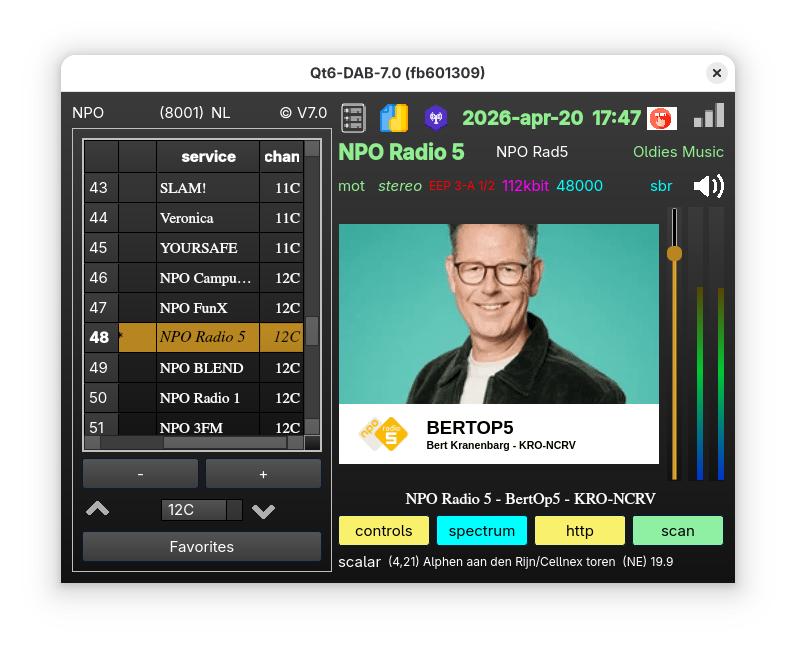
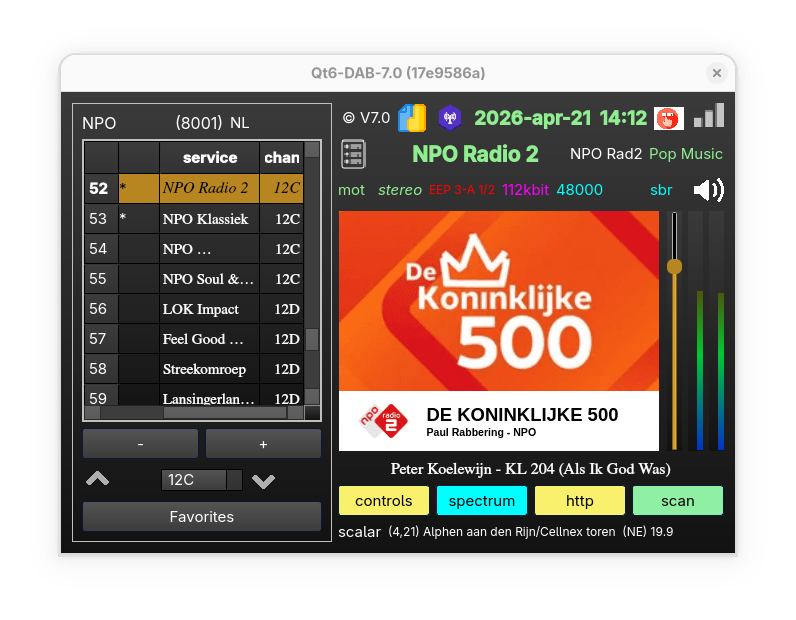
nearly at 7.0

Changed region(s): [[0.0603, 0.0613, 0.9347, 0.9194], [0.8744, 0.7048, 0.9045, 0.7355]]

diff --git a/sources/main/viewer/view-handler.cpp b/sources/main/viewer/view-handler.cpp
@@ -102,7 +102,7 @@
 	channelSelector	-> setEnabled (false);
 	prevChannel	-> setEnabled (false);
 	nextChannel	-> setEnabled (false);
-	currentService	= 0;
+	currentService	= -1;
 	QString startingChannel = 
               value_s (viewSettings, DAB_GENERAL, CHANNEL_NAME, "5A");
         int k = channelSelector -> findText (startingChannel);
@@ -112,6 +112,13 @@
 	         theRadio, &RadioInterface::handle_channelSelector);
 	connect (this, &serviceViewer::selectService,
 	         theRadio, &RadioInterface::localSelect);
+
+	QFont font		= ensembleId -> font ();
+        font. setPointSize (12);
+        ensembleId              -> setFont (font);
+        font			= countryName   -> font ();
+        font. setPointSize (11); 
+        countryName		-> setFont (font);
 }
 
 	serviceViewer::~serviceViewer	() {
@@ -158,15 +165,15 @@ void	serviceViewer::startMode	(int Mode) {
               show_displayList ();
 	      break;
 	   case FAVORITEVIEW:		// cannot happen
-	      channelSelector	-> setEnabled (false);
-	      prevChannel	-> setEnabled (false);
-	      nextChannel	-> setEnabled (false);
-	      viewSelector	-> setEnabled (false);
 	      channelSelector	-> hide ();
 	      prevChannel	-> hide ();
 	      nextChannel	-> hide ();
 	      viewSelector	-> show ();
+	      channelSelector	-> setEnabled (false);
+	      prevChannel	-> setEnabled (false);
+	      nextChannel	-> setEnabled (false);
               displayList	= theDataBase. getData (theMode);
+	      viewSelector	-> setEnabled (true);
               show_displayList ();
 	      break;
 	   case FILEINPUT:
@@ -197,9 +204,8 @@ QString	serviceViewer::extractName	(uint32_t SId) {
 	      return sd. serviceName;
 	return "";
 }
-
 //
-//	In ensembleview mode, services mght be added
+//	In ensembleview mode, services might be added
 void	serviceViewer::addService	(serviceDescriptor sd) {
 QString channel	= channelSelector -> currentText ();
 	for (auto &ssd: displayList) 
@@ -320,7 +326,6 @@ void	serviceViewer::reportService (const QString &channel,
 	   }
 	}
 }
-
 //
 //	the displayList and theTable are synced
 void	serviceViewer::clickOnService	(int row, int column) {
@@ -337,36 +342,34 @@ void	serviceViewer::clickOnService	(int row, int column) {
 	            theTable -> item (row, 0) -> setText ("*");
 	         else
 	            theTable -> item (row, 0) -> setText ("");
-	         break;		// cannot happen
+	         return;
 	      case FAVORITEVIEW:
 	      case FILEINPUT:
-	         break;		// no semantics
+	         return;	// no semantics
 	      default:		// cannot happen
-	         break;
+	         return;
 	   }
 	}
-	else {
-	   if (currentService != -1) {
-	      unmark (currentService);
-	   }
-	   switch (theMode) {
-	      case ENSEMBLEVIEW:	
-	      case FAVORITEVIEW:
-	         emit (selectService (displayList [row]. serviceName,
-	                              displayList [row]. channelName));
-	         set_channelIndex (displayList [row]. channelName);
-	         break;
+	if (currentService != -1) 
+	   unmark (currentService);
 
-	      case FILEINPUT:
-	         emit selectService (displayList [row]. serviceName, "");
-	         break;
+	switch (theMode) {
+	   case ENSEMBLEVIEW:	
+	   case FAVORITEVIEW:
+	      emit (selectService (displayList [row]. serviceName,
+	                            displayList [row]. channelName));
+	      set_channelIndex (displayList [row]. channelName);
+	      break;
 
-	      default:		// cannot happen
-	         break;
-	   }
-	   currentService = row;
-	   mark (currentService);
+	   case FILEINPUT:
+	      emit selectService (displayList [row]. serviceName, "");
+	      break;
+
+	   default:		// cannot happen
+	      break;
 	}
+	currentService = row;
+	mark (currentService);
 }
 
 void	serviceViewer::handle_nextService	() {
@@ -388,7 +391,6 @@ void	serviceViewer::handle_prevService	() {
 	emit (selectService (displayList [currentService]. serviceName,
 	                     displayList [currentService]. channelName));
 }
-
 //
 //	Only active when in mode ENSEMBLEVIEW
 void	serviceViewer::handle_channelSelector	(const QString &channel) {
@@ -661,5 +663,40 @@ int	serviceViewer::locate	(serviceDescriptor &sd) {
 	       (displayList [i]. channelName == sd. channelName))
 	   return i;
 	return -1;
+}
+static
+QString hextoString (uint32_t v) {
+QString res;
+        for (int i = 0; i < 4; i ++) {
+           const uint8_t t = (v & 0xF000) >> 12;
+           QChar c = t <= 9 ? static_cast<char> ('0' + t) :
+                              static_cast<char> ('A' + t - 10);
+           res. append (c);
+           v <<= 4;
+        }        
+        return res;
+}
+
+void	serviceViewer::set_ensembleId	(const QString &name, int id) {
+	ensembleId      -> setText (name + QString ("(") +
+                  hextoString (static_cast<uint32_t>(id))+ QString (")"));
+	connect (ensembleId, &clickablelabel::clicked_left,
+	         theRadio, &RadioInterface::handle_contentButton);
+	if (theMode == ENSEMBLEVIEW)
+	   connect (ensembleId, &clickablelabel::clicked_right,
+	            theRadio, &RadioInterface::handle_dump);
+}
+
+void	serviceViewer::set_countryName	(const QString &name) {
+	countryName	-> setText (name);
+}
+
+void	serviceViewer::clear_ensembleId	() {
+	ensembleId	-> setText ("");
+	countryName	-> setText ("");
+	disconnect (ensembleId, &clickablelabel::clicked_left,
+	            theRadio, &RadioInterface::handle_contentButton);
+	disconnect (ensembleId, &clickablelabel::clicked_right,
+	            theRadio, &RadioInterface::handle_dump);
 }
 

diff --git a/sources/main/radio.cpp b/sources/main/radio.cpp
@@ -301,12 +301,6 @@ QString h;
 	motLabel	-> setToolTip ("<font color=\"black\">the label colors green when MOT data, for the currently selected service, can be decoded");
 
 	programTypeLabel	-> setStyleSheet (labelStyle);
-	font			= ensembleId -> font ();
-	font. setPointSize (11);
-	ensembleId		-> setFont (font);
-	font			= transmitter_country	-> font ();
-	font. setPointSize (11);
-	transmitter_country	-> setFont (font);
 	stillMuting		-> hide ();
 	volumeSlider		-> hide ();
 	pauzeSlideTeller	= 0; // counting pause slides
@@ -784,30 +778,13 @@ void	RadioInterface::addToEnsemble (const QString &serviceName,
 void	RadioInterface::nrServices	(int n) {
 	channel. serviceCount = n;
 }
-//	The ensembleId is written as hexadecimal, however, the 
-//	number display of Qt is only 7 segments ...
-static
-QString hextoString (uint32_t v) {
-QString res;
-	for (int i = 0; i < 4; i ++) {
-	   const uint8_t t = (v & 0xF000) >> 12;
-	   QChar c = t <= 9 ? static_cast<char> ('0' + t) :
-	                      static_cast<char> ('A' + t - 10);
-	   res. append (c);
-	   v <<= 4;
-	}
-	return res;
-}
 //	a slot, called by the fib processor
 //	on recognition of an ensemblename
 void	RadioInterface::ensembleName (int id, const QString &v) {
 QString s;
 	if (!running. load())
 	   return;
-
-	ensembleId	-> setText (v + QString ("(") +
-	          hextoString (static_cast<uint32_t>(id))+ QString (")"));
-
+	newServices	-> set_ensembleId (v, id);
 	channel. ensembleName	= v;
 	channel. Eid		= static_cast<uint32_t>(id);
 	dynamicLabel		-> setText ("");
@@ -827,16 +804,6 @@ QString s;
 	              theSCANHandler. switchStayValue ();
 	      channelTimer. start (switchStay);
 	   }
-	}
-	else
-	if (!theSCANHandler. active ()) {
-	   read_pictureMappings (static_cast<uint32_t>(id));
-//	... and is we are not scanning, clicking the ensembleName
-//	has effect
-	   connect (ensembleId, &clickablelabel::clicked_left,
-	            this, &RadioInterface::handle_contentButton);
-	   connect (ensembleId, &clickablelabel::clicked_right,
-	            this, &RadioInterface::handle_dump);
 	}
 }
 //
@@ -2390,7 +2357,7 @@ void	RadioInterface::cleanScreen	() {
 	theTechWindow			-> cleanUp ();
 	motLabel			-> setStyleSheet ("QLabel {color : red}");
 	distanceLabel			-> setText ("");
-	transmitter_country		-> setText ("");
+	newServices			-> set_countryName ("");
 	theNewDisplay. ficError_display	-> setValue (0);
 }
 
@@ -2449,7 +2416,6 @@ int	tunedFrequency	=
 	channel. cleanChannel	();
 	channel. channelName	= theChannel;
 	channel. tunedFrequency	= tunedFrequency;
-	channel. countryName	= "";
 	theLogger. log (logger::LOG_NEW_CHANNEL, theChannel, channel. snr);
 	channel. realChannel	= !theDeviceHandler -> isFileInput ();
 	if (channel. realChannel) {
@@ -2527,14 +2493,11 @@ void	RadioInterface::stopChannel	() {
 
 	theDeviceHandler		-> stopReader	();
 	theDeviceHandler		-> stopDump	();
-	disconnect (ensembleId, &clickablelabel::clicked_left,
-	            this, &RadioInterface::handle_contentButton);
-	ensembleId	-> setText ("");
+	newServices			-> clear_ensembleId ();
 	stopSourceDumping	();
 	if (channel. etiActive)
 	   stop_etiHandler	();	// 
 	theLogger. log (logger::LOG_CHANNEL_STOPS, channel. channelName);
-	transmitter_country	-> setText	("");
 	theNewDisplay. setSilent	();
 //
 	for (auto &serv : channel. runningTasks) {
@@ -2901,7 +2864,7 @@ QString	theHeight;
 	QString headLine = channel. ensembleName + ";" +
 	                      channel. channelName  + ";" +
 	                      QString::number (channel. tunedFrequency) + ";" +
-	                      hextoString (channel. Eid) + ";" +
+	                      QString::number (channel. Eid, 16) + ";" +
 	                      tii + ";" +
 	                      utcTime + ";" +
 	                      SNR + ";" +
@@ -2923,7 +2886,7 @@ QString	theName;
 	QString headLine = channel. ensembleName + ";" +
 	                      channel. channelName  + ";" +
 	                      QString::number (channel. tunedFrequency) + ";" +
-	                      hextoString (channel. Eid) + ";" +
+	                      QString::number (channel. Eid, 16) + ";" +
 	                      utcTime + ";" +
 	                      SNR + ";" +
 	                      QString::number (channel. nrServices) +";"  +
@@ -3877,7 +3840,7 @@ void	RadioInterface::show_tiiData	(QVector<tiiData> r, int ind) {
 	                                         (channel. Eid >> 12) &0xF);
 	   channel. countryName	= country;
 	   channel. strongestTransmitter = "";
-	   transmitter_country	-> setText (country);
+	   newServices		-> set_countryName (country);
 	}
 
 //	The data in the vector is sorted on signal strength
@@ -4446,7 +4409,6 @@ void	RadioInterface::setFreqList	() {
 	channel. currentService. fmFrequencies = freqList;
 	theTechWindow	-> updateFM (freqList);
 }
-
 //
 //	Experimental code for handling DL2 data
 
@@ -4574,6 +4536,7 @@ void	RadioInterface::signal_dataTracer	(bool b) {
 	   theOfdmHandler -> set_dataTracer (b);
 }
 
+//////////////////////////////////////////////////////////////////////////
 void	RadioInterface::handle_startTimeTable	() {
 	if (theControl != nullptr) {
 	   delete theControl;

diff --git a/sources/main/radio.h b/sources/main/radio.h
@@ -640,12 +640,13 @@ public slots:
 //	signals from the viewhandler
 	void			handle_channelSelector	(const QString &);
 	void			reduceButtons		(bool);
+	void			handle_contentButton	();
+	void			handle_dump		();
 private slots:
 //	button and selectorhandlers
 	void			handle_configButton	();
 	void			handle_httpButton	();
 	void			handle_copyrightLabel	();
-	void			handle_contentButton	();
 	void			handle_detailButton	();
 	void			handle_scanButton	();
 	void			handle_etiHandler	();
@@ -655,7 +656,6 @@ private slots:
 	void			devSL_visibility	();
 	void			handle_resetButton		();
 
-	void			handle_dump		();
 	void			setVolume		(int);
 	void			handle_snrLabel		();
 	void			handle_distanceLabel	();

diff --git a/sources/main/viewer/view-handler.h b/sources/main/viewer/view-handler.h
@@ -64,7 +64,9 @@ QString	extractName		(uint32_t);
 void	clearAll		();
 void	saveName		(const QString &);
 QStringList	getSelectables	();
-
+void	set_ensembleId		(const QString &, int);
+void	set_countryName		(const QString &);
+void	clear_ensembleId	();
 QTableWidget	*theTable;
 private:	
 	RadioInterface	*theRadio;
